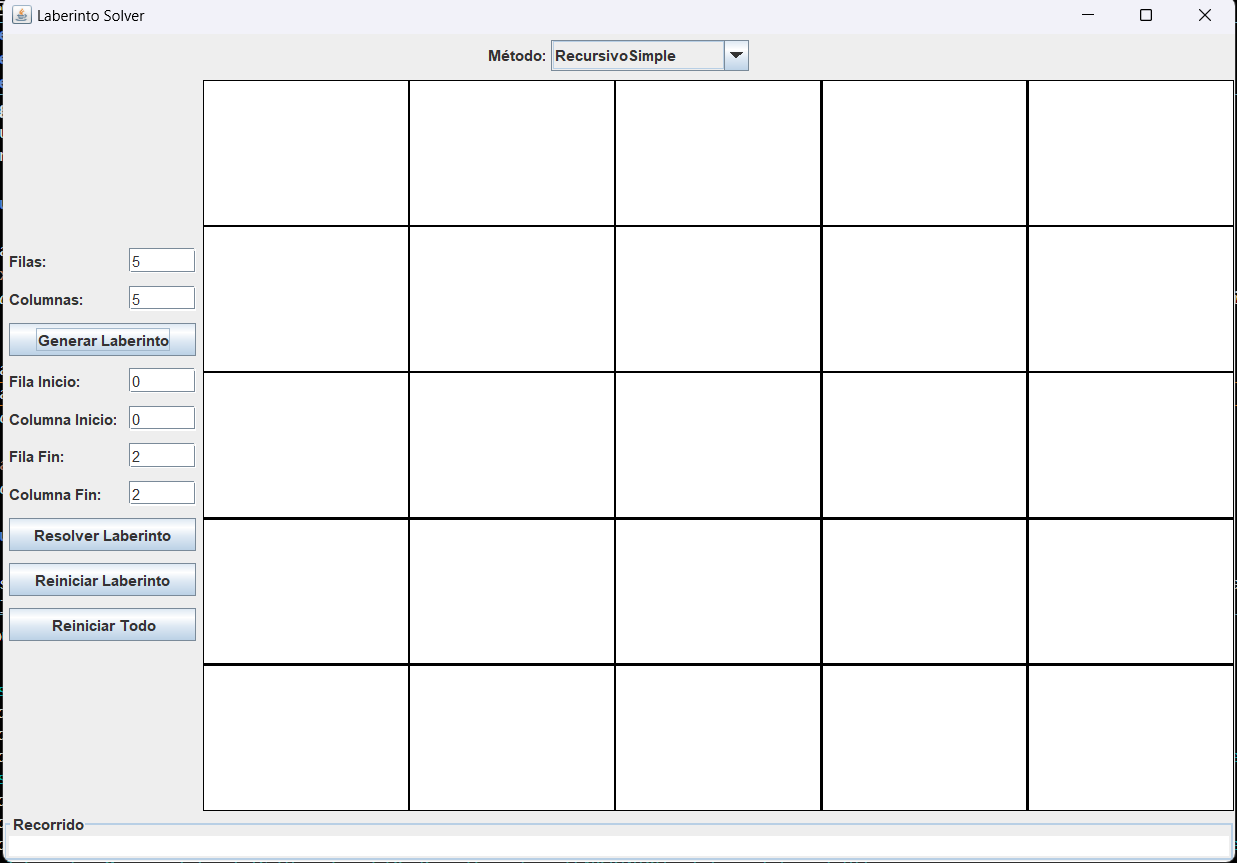
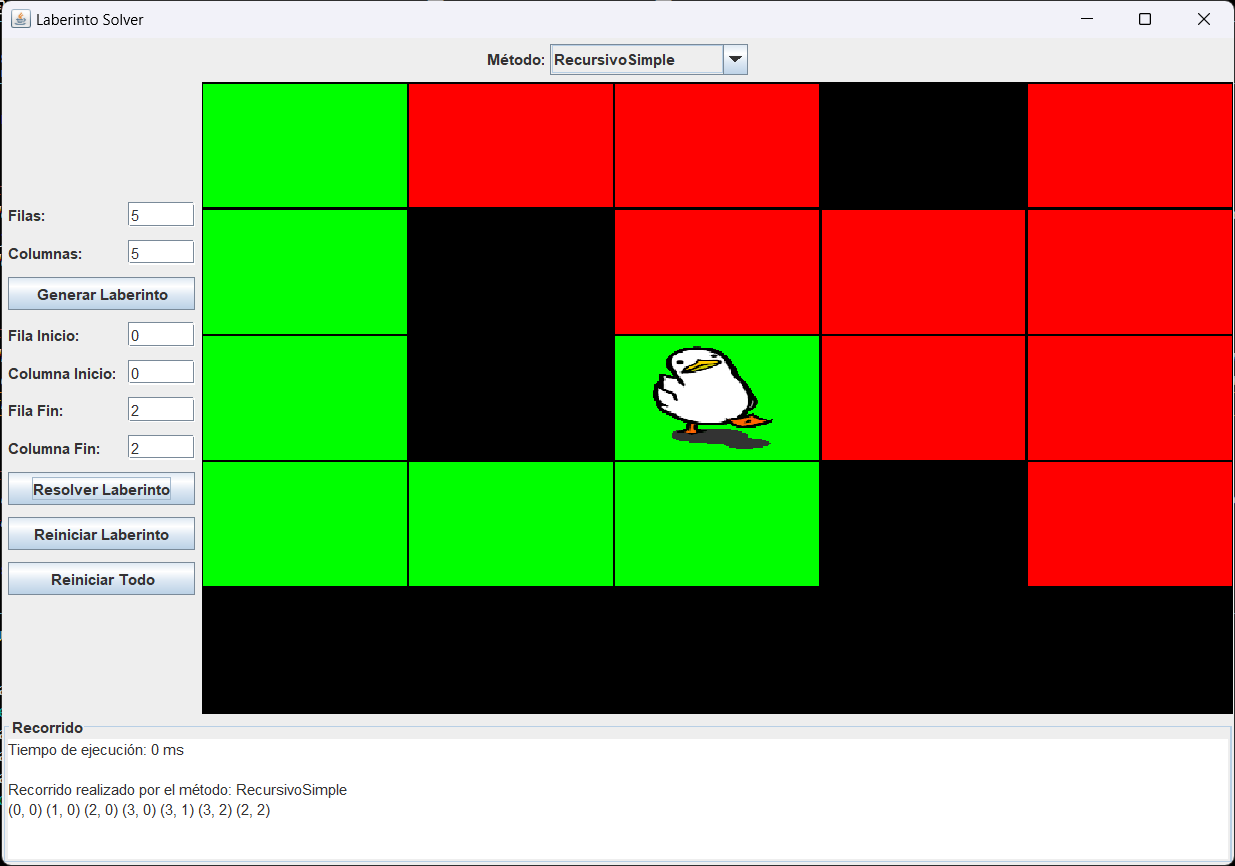
update

diff --git a/src/view/LaberintoUI.java b/src/view/LaberintoUI.java
@@ -315,7 +315,7 @@ public class LaberintoUI extends JFrame {
 
     private void displaySoluciones(List<List<Pair<Integer, Integer>>> soluciones, String metodo, long tiempoEjecucion) {
         recorridoArea.setText(""); // Limpiar el área de texto de recorrido
-        recorridoArea.append("Tiempo de ejecución: " + (tiempoEjecucion)*1e-6 + " s\n\n");
+        recorridoArea.append("Tiempo de ejecución: " + tiempoEjecucion + " ms\n\n");
 
         // Marcar todas las celdas blancas como rojas antes de marcar el camino
         for (int i = 0; i < laberintoLabels.length; i++) {
